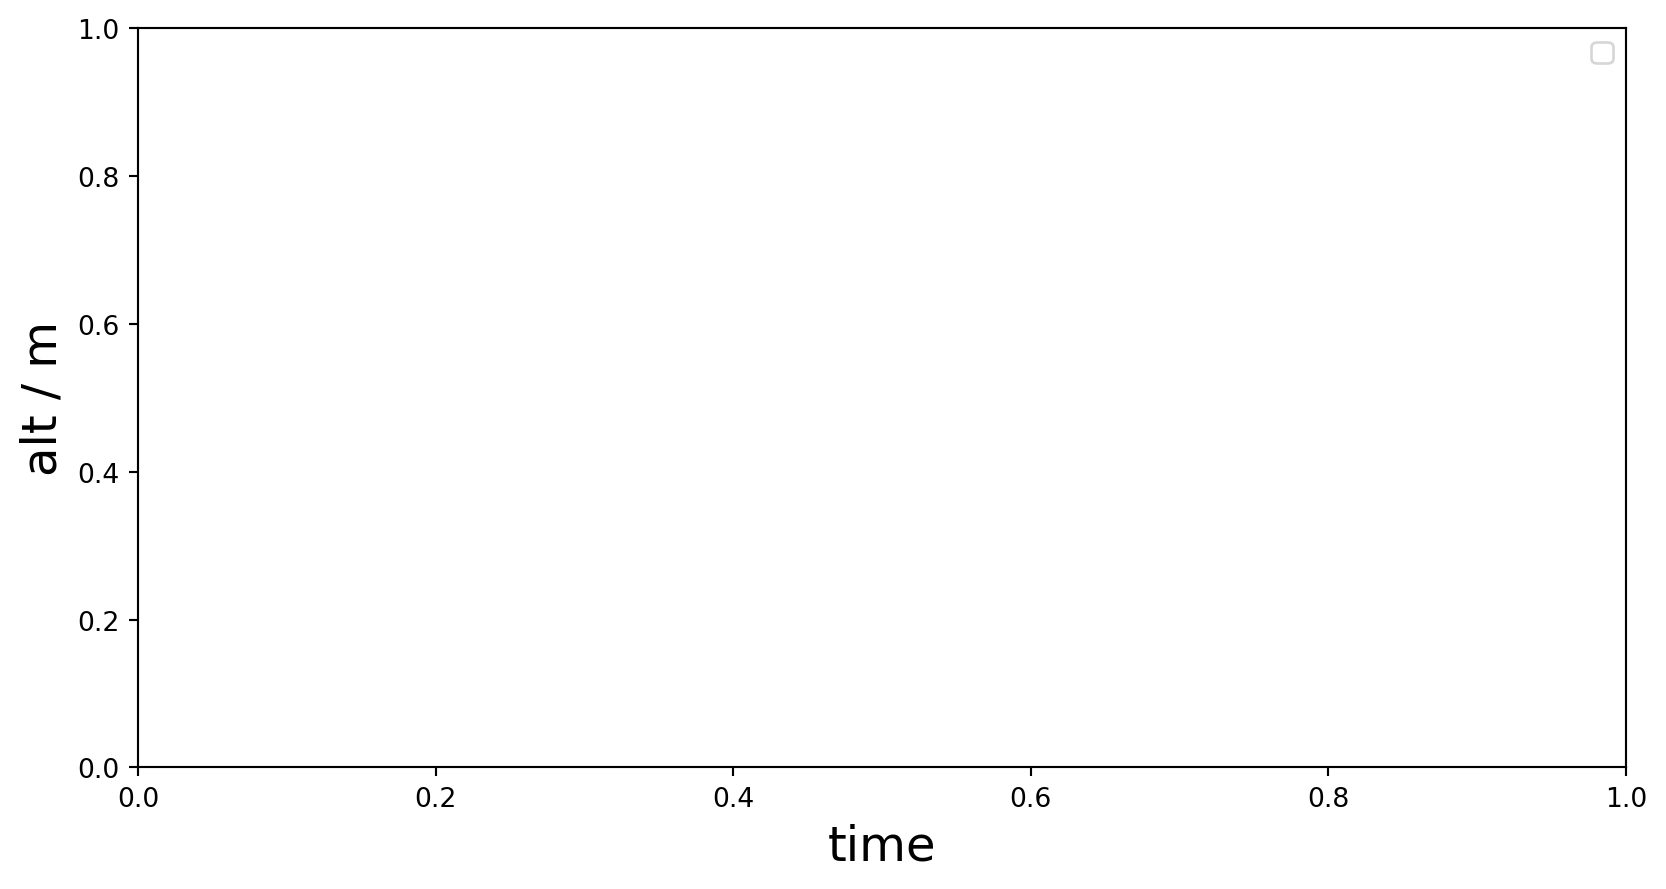
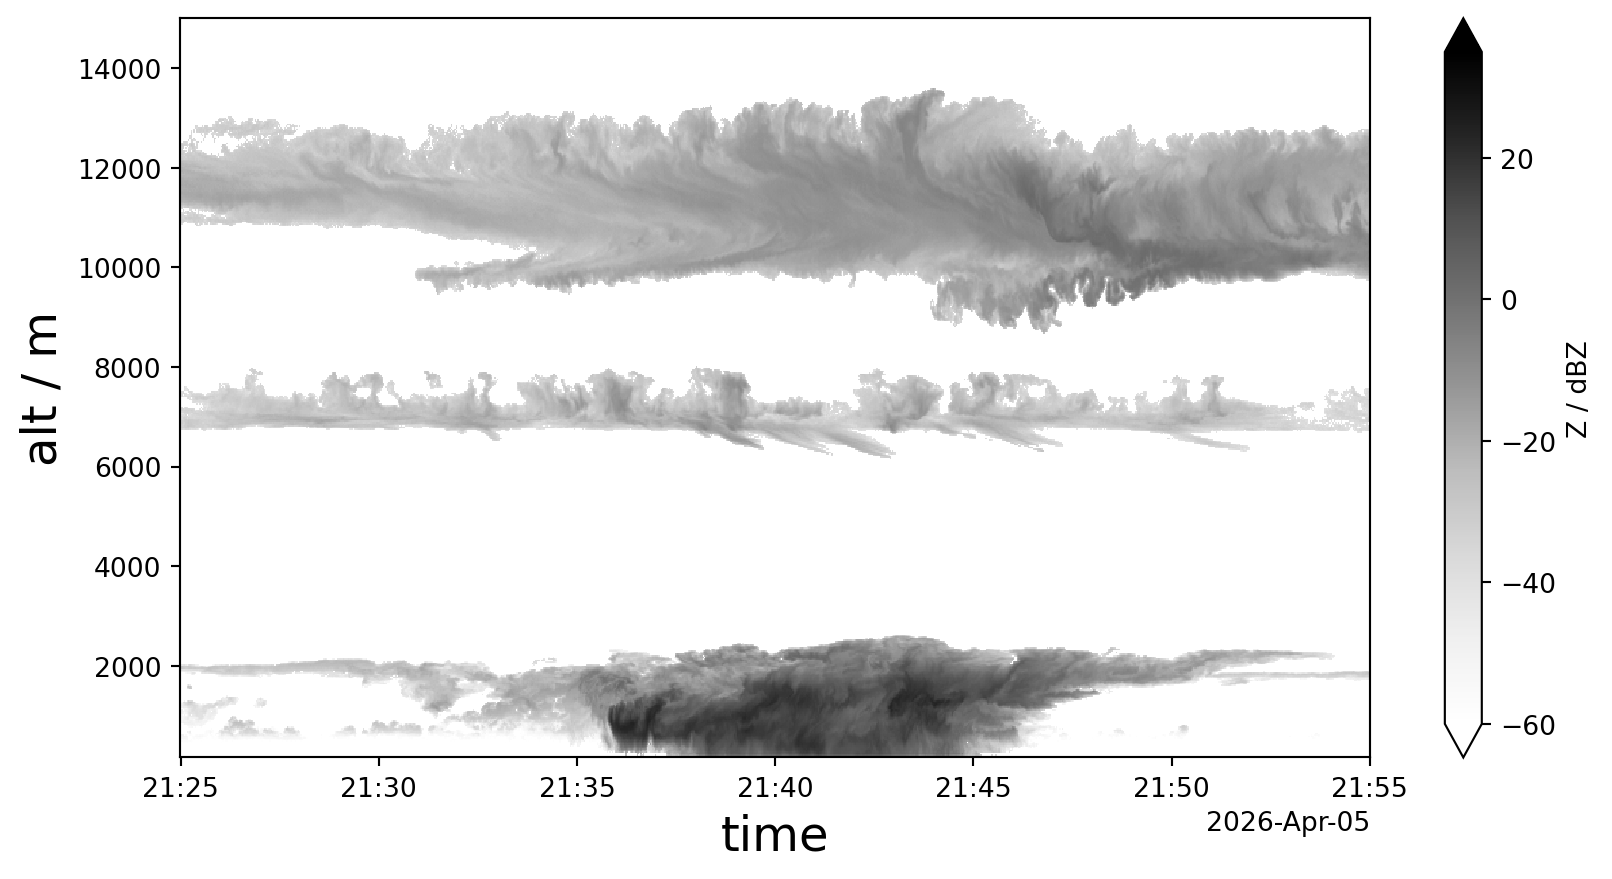
deploy: 4e889a698f03d10dcf7b2dfac3480d885de2e7ed

diff --git a/index.html b/index.html
@@ -225,7 +225,7 @@ Rowan Orlijan-Rhyne
 <section id="but-here-its-english" class="slide level2 center">
 <h2>but here, it’s English…</h2>
 </section>
-<section id="section" class="title-slide slide level1 quarto-embed-nb-cell center" data-notebook="/home/runner/work/clima-dec2026/clima-dec2026/julia.qmd" data-notebook-cellid="dbe3d052-f7ee-422f-9b3a-d99c8a1b932c">
+<section id="section" class="title-slide slide level1 quarto-embed-nb-cell center" data-notebook="/home/runner/work/clima-dec2026/clima-dec2026/julia.qmd" data-notebook-cellid="c40943e4-17e2-415b-87ad-692ceb302818">
 <h1></h1>
 <p><span style="color: #CE3072;">or is it??</span></p>
 <div id="2" class="cell" data-execution_count="1">
@@ -239,7 +239,7 @@ Rowan Orlijan-Rhyne
 </div>
 </section>
 
-<section id="section-1" class="title-slide slide level1 quarto-embed-nb-cell center" data-notebook="/home/runner/work/clima-dec2026/clima-dec2026/julia-2.qmd" data-notebook-cellid="e1add9ec-c1d4-434c-a855-1613a6eda5d0">
+<section id="section-1" class="title-slide slide level1 quarto-embed-nb-cell center" data-notebook="/home/runner/work/clima-dec2026/clima-dec2026/julia-2.qmd" data-notebook-cellid="2288537f-fb06-411d-8e94-161735f87a93">
 <h1></h1>
 <p>even better:</p>
 <div id="4" class="cell" data-engine="julia" data-execution_count="1">
@@ -273,7 +273,7 @@ Hello, I'm Rowan, from Claremont!</code></pre>
 <li>the tropics drive Earth’s energetics and large scale circulations</li>
 </ul>
 </div><div class="column">
-<div id="2e3d96dd" class="cell" data-execution_count="1">
+<div id="371346e2" class="cell" data-execution_count="1">
 <div class="cell-output cell-output-display">
 <div>
 <figure>
@@ -293,7 +293,7 @@ Hello, I'm Rowan, from Claremont!</code></pre>
 </ul>
 </div><div class="column">
 <div class="fragment">
-<div id="2f5eaba8" class="cell" data-execution_count="2">
+<div id="095e5823" class="cell" data-execution_count="2">
 <div class="cell-output cell-output-display">
 <div>
 <figure>
@@ -313,7 +313,7 @@ Hello, I'm Rowan, from Claremont!</code></pre>
 <li>understanding tropical circulation and energy means understanding tropical clouds, and vice versa</li>
 </ul>
 </div><div class="column">
-<div id="ca936434" class="cell" data-execution_count="3">
+<div id="d427d2a3" class="cell" data-execution_count="3">
 <div class="cell-output cell-output-display">
 <div>
 <figure>
@@ -332,7 +332,7 @@ Hello, I'm Rowan, from Claremont!</code></pre>
 <li>understanding tropical circulation and energy means understanding tropical clouds, and vice versa</li>
 </ul>
 </div><div class="column">
-<div id="88350e44" class="cell" data-execution_count="4">
+<div id="7d2094da" class="cell" data-execution_count="4">
 <div class="cell-output cell-output-display">
 <div>
 <figure>
@@ -351,7 +351,7 @@ Hello, I'm Rowan, from Claremont!</code></pre>
 <li>understanding tropical circulation and energy means understanding tropical clouds, and vice versa</li>
 </ul>
 </div><div class="column">
-<div id="7bf27052" class="cell" data-execution_count="5">
+<div id="771e08b8" class="cell" data-execution_count="5">
 <div class="cell-output cell-output-display">
 <div>
 <figure>
@@ -381,7 +381,7 @@ Hello, I'm Rowan, from Claremont!</code></pre>
 </div>
 </div>
 </div><div class="column">
-<div id="22e1432e" class="cell" data-execution_count="6">
+<div id="40a57a04" class="cell" data-execution_count="6">
 <div class="cell-output cell-output-display">
 <div>
 <figure>
@@ -441,7 +441,7 @@ Hello, I'm Rowan, from Claremont!</code></pre>
 <img data-src="static/cmip6-dataportal.png" class="r-stretch quarto-figure-center"><p class="caption">CMIP6 data browser</p></section>
 <section id="downloads-a-shell-script" class="slide level2 center">
 <h2>downloads a shell script</h2>
-<div id="05d5afb0" class="cell" data-execution_count="7">
+<div id="811d4758" class="cell" data-execution_count="7">
 <div class="sourceCode cell-code" id="cb9"><pre class="sourceCode numberSource python number-lines code-with-copy"><code class="sourceCode python"><span id="cb9-1"><a href=""></a><span class="cf">with</span> <span class="bu">open</span>(<span class="st">"static/wget_script_2026-11-20_18-48-52.sh"</span>, <span class="st">'r'</span>) <span class="im">as</span> f:</span>
 <span id="cb9-2"><a href=""></a>        <span class="bu">print</span>(<span class="bu">sum</span>(<span class="dv">1</span> <span class="cf">for</span> line <span class="kw">in</span> f))</span></code><button title="Copy to Clipboard" class="code-copy-button"><i class="bi"></i></button></pre></div>
 <div class="cell-output cell-output-stdout">
@@ -525,7 +525,7 @@ Hello, I'm Rowan, from Claremont!</code></pre>
 </section>
 <section id="data-access" class="slide level2 center">
 <h2>data access</h2>
-<div id="595092d5" class="cell" data-execution_count="8">
+<div id="9d1f42f5" class="cell" data-execution_count="8">
 <div class="sourceCode cell-code" id="cb12"><pre class="sourceCode numberSource python number-lines code-with-copy"><code class="sourceCode python"><span id="cb12-1"><a href=""></a><span class="im">import</span> intake</span>
 <span id="cb12-2"><a href=""></a>cat <span class="op">=</span> intake.open_catalog(<span class="st">"https://tcodata.mpimet.mpg.de/catalog.yaml"</span>)</span>
 <span id="cb12-3"><a href=""></a><span class="bu">print</span>(<span class="bu">len</span>(<span class="bu">list</span>(cat.BCO)))</span>
@@ -596,7 +596,7 @@ Hello, I'm Rowan, from Claremont!</code></pre>
 </section>
 <section id="a-short-tour-surface-meteorology" class="slide level2 center">
 <h2>a short tour: surface meteorology</h2>
-<div id="c2f6342f" class="cell" data-execution_count="10">
+<div id="1ae4cbf6" class="cell" data-execution_count="10">
 <div class="sourceCode cell-code" id="cb15"><pre class="sourceCode numberSource python number-lines code-with-copy"><code class="sourceCode python"><span id="cb15-1"><a href=""></a>sfc <span class="op">=</span> cat.BCO.surfacemet(time<span class="op">=</span><span class="st">"P1D"</span>).to_dask()</span>
 <span id="cb15-2"><a href=""></a>sfc.ta.plot(<span class="op">**</span>line_args)</span>
 <span id="cb15-3"><a href=""></a>plt.title(<span class="va">None</span>)</span>
@@ -612,7 +612,7 @@ Hello, I'm Rowan, from Claremont!</code></pre>
 </section>
 <section id="a-short-tour-surface-meteorology-1" class="slide level2 center" data-transition="none">
 <h2>a short tour: surface meteorology</h2>
-<div id="86c14161" class="cell" data-execution_count="11">
+<div id="123b36d6" class="cell" data-execution_count="11">
 <div class="sourceCode cell-code" id="cb16"><pre class="sourceCode numberSource python number-lines code-with-copy"><code class="sourceCode python"><span id="cb16-1"><a href=""></a><span class="bu">dir</span> <span class="op">=</span> np.mod(<span class="dv">180</span> <span class="op">+</span> np.degrees(np.arctan2(sfc.u, sfc.v)), <span class="dv">360</span>)</span>
 <span id="cb16-2"><a href=""></a><span class="bu">dir</span>.plot.hist(bins<span class="op">=</span><span class="dv">75</span>, density<span class="op">=</span><span class="va">True</span>, color<span class="op">=</span>line_color)</span>
 <span id="cb16-3"><a href=""></a>plt.title(<span class="va">None</span>)</span>
@@ -628,7 +628,7 @@ Hello, I'm Rowan, from Claremont!</code></pre>
 </section>
 <section id="a-short-tour-clouds" class="slide level2 center">
 <h2>a short tour: clouds</h2>
-<div id="8412ec9b" class="cell" data-execution_count="12">
+<div id="33d71db5" class="cell" data-execution_count="12">
 <div class="sourceCode cell-code" id="cb17"><pre class="sourceCode numberSource python number-lines code-with-copy"><code class="sourceCode python"><span id="cb17-1"><a href=""></a>ds <span class="op">=</span> cat.BCO.cloudradar(time<span class="op">=</span><span class="st">"P1D"</span>).to_dask()</span>
 <span id="cb17-2"><a href=""></a>ds.cloud_fraction.sel(time<span class="op">=</span>ds.time.dt.month.isin([<span class="dv">1</span>, <span class="dv">2</span>, <span class="dv">3</span>])).mean(dim<span class="op">=</span><span class="st">"time"</span>).plot(y<span class="op">=</span><span class="st">"alt"</span>, label<span class="op">=</span><span class="st">"JFM"</span>, <span class="op">**</span>line_args)</span>
 <span id="cb17-3"><a href=""></a>ds.cloud_fraction.sel(time<span class="op">=</span>ds.time.dt.month.isin([<span class="dv">9</span>, <span class="dv">10</span>, <span class="dv">11</span>])).mean(dim<span class="op">=</span><span class="st">"time"</span>).plot(y<span class="op">=</span><span class="st">"alt"</span>, label<span class="op">=</span><span class="st">"SON"</span>, <span class="op">**</span>line_args_acc)</span>
@@ -651,16 +651,16 @@ Hello, I'm Rowan, from Claremont!</code></pre>
 <ul>
 <li>todo: plot a cool big cloud</li>
 </ul>
-<div id="44b1190d" class="cell" data-execution_count="14">
-<div class="sourceCode cell-code" id="cb18"><pre class="sourceCode numberSource python number-lines code-with-copy"><code class="sourceCode python"><span id="cb18-1"><a href=""></a>plt.title(<span class="va">None</span>)</span>
-<span id="cb18-2"><a href=""></a>plt.ylabel(<span class="st">"alt / m"</span>, <span class="op">**</span>axis_labels)</span>
-<span id="cb18-3"><a href=""></a>plt.xlabel(<span class="st">"time"</span>, <span class="op">**</span>axis_labels)</span>
-<span id="cb18-4"><a href=""></a>plt.legend()</span>
-<span id="cb18-5"><a href=""></a>plt.show()</span></code><button title="Copy to Clipboard" class="code-copy-button"><i class="bi"></i></button></pre></div>
+<div id="505935e6" class="cell" data-execution_count="14">
+<div class="sourceCode cell-code" id="cb18"><pre class="sourceCode numberSource python number-lines code-with-copy"><code class="sourceCode python"><span id="cb18-1"><a href=""></a>clouds <span class="op">=</span> cat.BCO.cloudradar(time<span class="op">=</span><span class="st">"raw"</span>).to_dask().Z.sel(time<span class="op">=</span><span class="bu">slice</span>(start_time, end_time), alt<span class="op">=</span><span class="bu">slice</span>(<span class="va">None</span>, <span class="dv">15000</span>))</span>
+<span id="cb18-2"><a href=""></a>clouds.plot(y<span class="op">=</span><span class="st">"alt"</span>, robust<span class="op">=</span><span class="va">True</span>, cmap<span class="op">=</span><span class="st">"Greys"</span>, vmin<span class="op">=-</span><span class="dv">60</span>, vmax<span class="op">=</span><span class="dv">35</span>, cbar_kwargs<span class="op">=</span>{<span class="st">'label'</span>: <span class="st">'Z / dBZ'</span>}, extend<span class="op">=</span><span class="st">"both"</span>)</span>
+<span id="cb18-3"><a href=""></a>plt.ylabel(<span class="st">"alt / m"</span>, <span class="op">**</span>axis_labels)</span>
+<span id="cb18-4"><a href=""></a>plt.xlabel(<span class="st">"time"</span>, <span class="op">**</span>axis_labels)</span>
+<span id="cb18-5"><a href=""></a>plt.title(<span class="va">None</span>)<span class="op">;</span></span></code><button title="Copy to Clipboard" class="code-copy-button"><i class="bi"></i></button></pre></div>
 <div class="cell-output cell-output-display">
 <div>
 <figure>
-<p><img data-src="index_files/figure-revealjs/cell-15-output-1.png" width="833" height="445"></p>
+<p><img data-src="index_files/figure-revealjs/cell-15-output-1.png" width="806" height="440"></p>
 </figure>
 </div>
 </div>
@@ -691,7 +691,7 @@ Hello, I'm Rowan, from Claremont!</code></pre>
 </section>
 <section id="missing-2024-winter" class="slide level2 center">
 <h2><span style="color: #CE3072;">missing</span>: 2024 winter</h2>
-<div id="df84ab98" class="cell" data-execution_count="16">
+<div id="e25bc39d" class="cell" data-execution_count="16">
 <div class="sourceCode cell-code" id="cb19"><pre class="sourceCode numberSource python number-lines code-with-copy"><code class="sourceCode python"><span id="cb19-1"><a href=""></a>(sfc.ta.groupby(sfc.time.dt.dayofyear) <span class="op">-</span> clim).sel(time<span class="op">=</span><span class="bu">slice</span>(<span class="st">"2023-11"</span>, <span class="st">"2024-04"</span>)).plot(<span class="op">**</span>line_args)</span>
 <span id="cb19-2"><a href=""></a>plt.axhline(<span class="dv">0</span>, linestyle<span class="op">=</span><span class="st">"--"</span>, alpha<span class="op">=</span><span class="fl">0.7</span>, <span class="op">**</span>line_args)</span>
 <span id="cb19-3"><a href=""></a>plt.ylabel(<span class="st">"temp. anomaly / deg C"</span>, <span class="op">**</span>axis_labels)<span class="op">;</span></span></code><button title="Copy to Clipboard" class="code-copy-button"><i class="bi"></i></button></pre></div>
@@ -707,7 +707,7 @@ Hello, I'm Rowan, from Claremont!</code></pre>
 </section>
 <section id="missing-2024-high-clouds" class="slide level2 center">
 <h2><span style="color: #CE3072;">missing</span>: 2024 high clouds</h2>
-<div id="19caa590" class="cell" data-execution_count="18">
+<div id="85f80bf2" class="cell" data-execution_count="18">
 <div class="sourceCode cell-code" id="cb20"><pre class="sourceCode numberSource python number-lines code-with-copy"><code class="sourceCode python"><span id="cb20-1"><a href=""></a><span class="cf">for</span> i, (m, da) <span class="kw">in</span> <span class="bu">enumerate</span>(<span class="bu">zip</span>(months, highcloudsbymonth)):</span>
 <span id="cb20-2"><a href=""></a>    da.plot(y<span class="op">=</span><span class="st">"alt"</span>, label<span class="op">=</span>m, color<span class="op">=</span>colors[i])</span>
 <span id="cb20-3"><a href=""></a>plt.title(<span class="va">None</span>)</span>
@@ -724,6 +724,11 @@ Hello, I'm Rowan, from Claremont!</code></pre>
 </div>
 </div>
 </div>
+</section></section>
+<section>
+<section id="another-perspective" class="title-slide slide level1 center" data-background-image="_extensions/titles/clouds.png">
+<h1>another perspective</h1>
+
 </section>
 <section id="role-of-the-synoptic-state" class="slide level2 center">
 <h2>role of the synoptic state</h2>
@@ -785,7 +790,7 @@ Hello, I'm Rowan, from Claremont!</code></pre>
 <ul>
 <li>high-resolution temperature and moisture measurements from the Raman LIDAR at the BCO</li>
 </ul>
-<div id="b9f343a3" class="cell" data-execution_count="20">
+<div id="6b0000a3" class="cell" data-execution_count="20">
 <div class="sourceCode cell-code" id="cb21"><pre class="sourceCode numberSource python number-lines code-with-copy"><code class="sourceCode python"><span id="cb21-1"><a href=""></a><span class="cf">for</span> i, t <span class="kw">in</span> <span class="bu">enumerate</span>(lidar.time.values):</span>
 <span id="cb21-2"><a href=""></a>    lidar.sel(time<span class="op">=</span>t).ta.where(<span class="kw">lambda</span> da: (da <span class="op">&gt;</span> <span class="dv">0</span>) <span class="op">&amp;</span> (da <span class="op">&lt;</span> <span class="dv">500</span>)).plot(y<span class="op">=</span><span class="st">"alt"</span>, label<span class="op">=</span>t.astype(<span class="st">"datetime64[m]"</span>), color<span class="op">=</span>tcolor[i])</span>
 <span id="cb21-3"><a href=""></a>plt.ylabel(<span class="st">"alt / m"</span>, <span class="op">**</span>axis_labels)</span>
